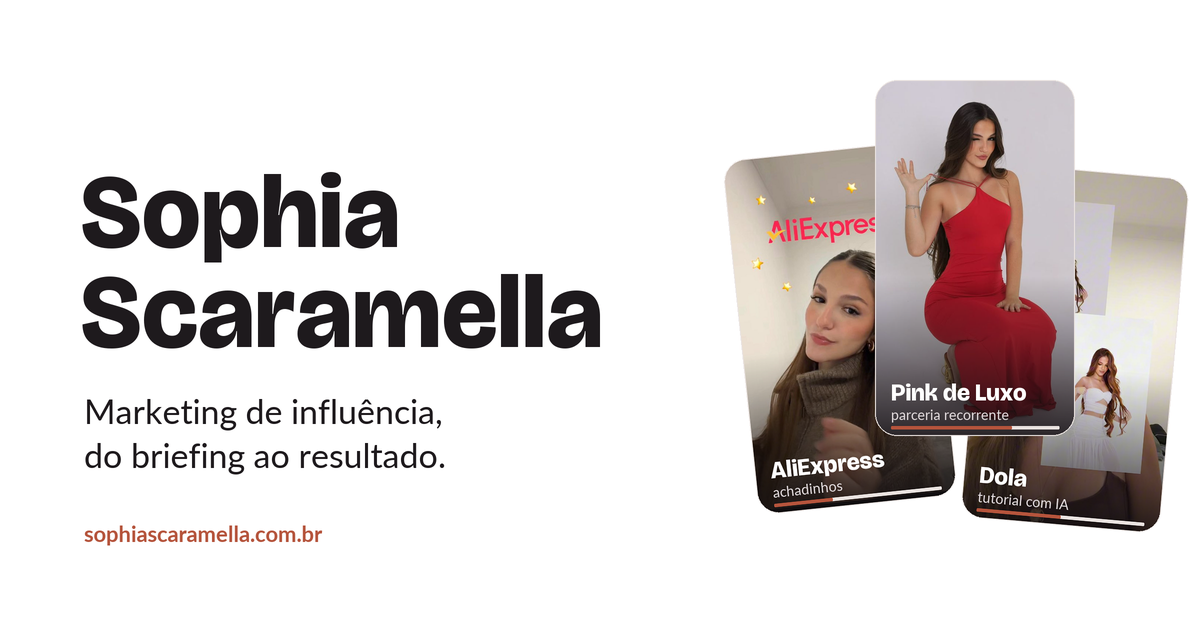
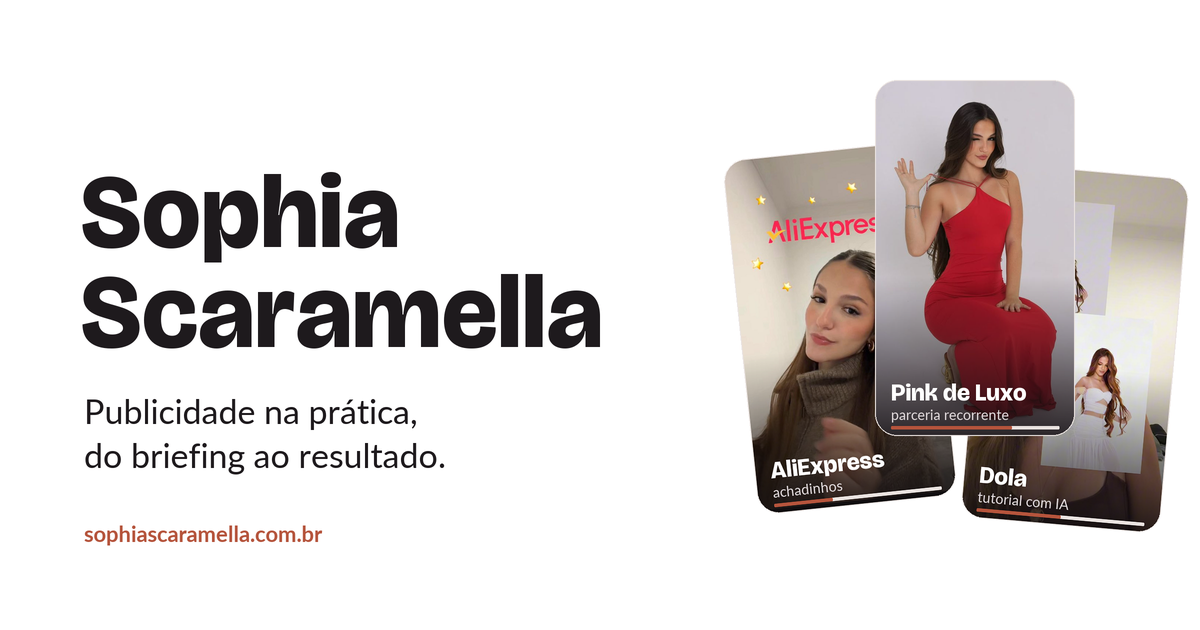
feat: título "Publicidade na prática" e SEO básico
Troca o título principal, a aba, a descrição e a og.png para
"Publicidade na prática, do briefing ao resultado". Adiciona link
canônico, dados estruturados Person, robots.txt e sitemap.xml.

Changed region(s): [[0.0617, 0.6333, 0.37, 0.6937]]

diff --git a/index.html b/index.html
@@ -3,12 +3,37 @@
 <head>
 <meta charset="utf-8">
 <meta name="viewport" content="width=device-width, initial-scale=1, viewport-fit=cover">
-<title>Sophia Scaramella — Marketing de influência</title>
-<meta name="description" content="Portfólio de Sophia Scaramella: cases de marketing de influência, do briefing ao resultado.">
+<title>Sophia Scaramella — Publicidade na prática</title>
+<meta name="description" content="Portfólio de Sophia Scaramella, estudante de Publicidade no Mackenzie: cases de publicidade para marcas, do briefing ao resultado.">
+<link rel="canonical" href="https://sophiascaramella.com.br/">
+<script type="application/ld+json">
+{
+  "@context": "https://schema.org",
+  "@type": "ProfilePage",
+  "url": "https://sophiascaramella.com.br/",
+  "inLanguage": "pt-BR",
+  "mainEntity": {
+    "@type": "Person",
+    "name": "Sophia Scaramella",
+    "url": "https://sophiascaramella.com.br/",
+    "image": "https://sophiascaramella.com.br/img/sophia.jpg",
+    "email": "mailto:sophiascaramella@gmail.com",
+    "description": "Estudante de Publicidade e Propaganda no Mackenzie, criando campanhas e conteúdo para marcas desde 2024.",
+    "knowsAbout": ["Marketing de influência", "Social media", "Branded content", "UGC"],
+    "alumniOf": {"@type": "CollegeOrUniversity", "name": "Universidade Presbiteriana Mackenzie"},
+    "address": {"@type": "PostalAddress", "addressLocality": "São Paulo", "addressCountry": "BR"},
+    "sameAs": [
+      "https://www.linkedin.com/in/sophia-scaramella-a5907a380",
+      "https://www.instagram.com/sophiascaramella",
+      "https://www.tiktok.com/@sosozinha2.0"
+    ]
+  }
+}
+</script>
 <meta property="og:type" content="website">
 <meta property="og:url" content="https://sophiascaramella.com.br/">
-<meta property="og:title" content="Sophia Scaramella — Marketing de influência">
-<meta property="og:description" content="Cases de marketing de influência, do briefing ao resultado.">
+<meta property="og:title" content="Sophia Scaramella — Publicidade na prática">
+<meta property="og:description" content="Publicidade na prática: cases para marcas, do briefing ao resultado.">
 <meta property="og:image" content="https://sophiascaramella.com.br/og.png">
 <meta property="og:image:width" content="1200">
 <meta property="og:image:height" content="630">
@@ -163,7 +188,7 @@ footer{border-top:1px solid var(--line);padding:24px 0;color:var(--muted);font-s
   <header class="hero">
     <div>
       <h1>Sophia Scaramella</h1>
-      <p class="lede">Marketing de influência, do briefing ao resultado.
+      <p class="lede">Publicidade na prática, do briefing ao resultado.
         <span>Estudante de Publicidade no Mackenzie, criando campanhas para marcas desde 2024.</span></p>
       <p class="seeking">Disponível para estágio em marketing de influência, social media ou branded content.</p>
       <div class="actions">
